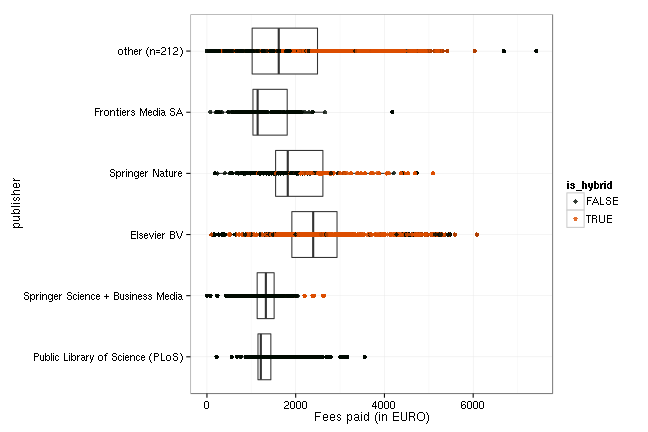
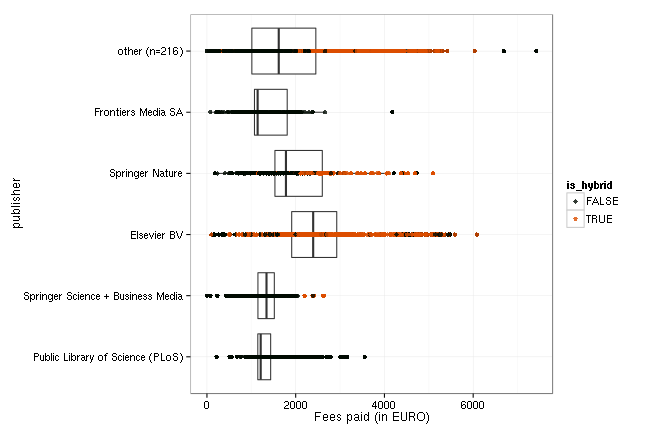
post: tuebingen u joins OpenAPC

diff --git a/_posts/2016-07-27-tuebingen.md b/_posts/2016-07-27-tuebingen.md
@@ -1,0 +1,75 @@
+---
+layout:     post
+author:     Christoph Broschinski
+title:      University of Tübingen joins openapc.github.io
+date:       2016-07-27 09:00:00
+summary:    
+categories: [general, openAPC]
+comments: true
+---
+
+
+
+
+We welcome the [Eberhard Karls Universität Tübingen](https://www.uni-tuebingen.de/en.html) as new contributing institution! [Tübingen University Library](https://www.uni-tuebingen.de/nc/en/facilities/university-library/home.html) is in charge of the [University's Open Access Publishing Fund](https://www.uni-tuebingen.de/einrichtungen/universitaetsbibliothek/forschen-publizieren/open-access-publikationsfonds.html), which is supported under the [DFG's Open Access Publishing Programme](http://www.dfg.de/en/research_funding/programmes/infrastructure/lis/funding_opportunities/open_access_publishing/index.html).
+
+Contact person is [Ute Holzwarth](mailto:openaccess@ub.uni-tuebingen.de).
+
+## About the dataset
+
+The initial dataset contributed by University of Tübingen contains information on publication fees paid in 3 years from 2013 to 2015. 
+
+## Cost Data
+
+
+
+The dataset covers publication fees for 400 articles. Total expenditure amounts to 535 437€ and the average fee is 1 339€.
+
+The following table shows the payments the University of Tübingen has made to publishers (including taxes and discounts).
+
+
+|                                              | Articles| Fees paid in EURO| Mean Fee paid|
+|:---------------------------------------------|--------:|-----------------:|-------------:|
+|Public Library of Science (PLoS)              |       99|            107749|          1088|
+|Frontiers Media SA                            |       85|            112731|          1326|
+|Springer Science + Business Media             |       70|            106374|          1520|
+|Springer Nature                               |       40|             61248|          1531|
+|S. Karger AG                                  |       37|             63981|          1729|
+|MDPI AG                                       |       19|             20550|          1082|
+|Hindawi Publishing Corporation                |        9|              7802|           867|
+|Copernicus GmbH                               |        5|              5198|          1040|
+|Elsevier BV                                   |        5|              7488|          1498|
+|OMICS Publishing Group                        |        4|              4486|          1121|
+|Oxford University Press (OUP)                 |        3|              5018|          1673|
+|Dove Medical Press Ltd.                       |        2|              3531|          1765|
+|IOP Publishing                                |        2|              2570|          1285|
+|Optical Society of America (OSA)              |        2|              3468|          1734|
+|Wiley-Blackwell                               |        2|              4899|          2450|
+|Akademiai Kiado Zrt.                          |        1|               653|           653|
+|ALTEX Edition                                 |        1|              2000|          2000|
+|Austin Publishing group                       |        1|              1786|          1786|
+|BMJ                                           |        1|              1380|          1380|
+|e-Century Publishing Corporation              |        1|              1371|          1371|
+|Impact Journals, LLC                          |        1|              1986|          1986|
+|Institute of Mathematical Statistics          |        1|               562|           562|
+|International Scientific Literature           |        1|               892|           892|
+|International Union of Crystallography (IUCr) |        1|               150|           150|
+|JMIR Publications Inc.                        |        1|              1858|          1858|
+|Libertas Academica, Ltd.                      |        1|              1687|          1687|
+|Nature Publishing Group                       |        1|              1245|          1245|
+|omics international                           |        1|               863|           863|
+|Openventio Publishers                         |        1|               632|           632|
+|PeerJ                                         |        1|               897|           897|
+|Scientific Research Publishing, Inc,          |        1|               381|           381|
+
+### Fees paid per publisher (in EURO)
+
+![plot of chunk tree_tuebingen_2016_07_27_full](/figure/tree_tuebingen_2016_07_27_full-1.png) 
+
+###  Average costs per year (in EURO)
+
+![plot of chunk box_tuebingen_2016_07_27_year_full](/figure/box_tuebingen_2016_07_27_year_full-1.png) 
+
+###  Average costs per publisher (in EURO)
+
+![plot of chunk box_tuebingen_2016_07_27_publisher_full](/figure/box_tuebingen_2016_07_27_publisher_full-1.png) 

diff --git a/about.md b/about.md
@@ -41,6 +41,7 @@ So far, the following German universities have agreed to share information on pa
 - [University of Konstanz](http://www.ub.uni-konstanz.de/openaccess/open-access-publikationsfonds-der-universitaet-konstanz/)
 - [University of Potsdam](https://publishup.uni-potsdam.de/home/index/help/content/publication_fund)
 - [University of Regensburg](http://oa.uni-regensburg.de/)
+- [University of Tübingen](https://www.uni-tuebingen.de/en/facilities/university-library/researching-publishing/open-access-publikationsfonds.html)
 - [University of Würzburg](http://www.bibliothek.uni-wuerzburg.de/en/service0/electronic_publishing/open_access/open_access_journals/)
 
 ## Participating Research Society Funds in Germany
@@ -72,13 +73,13 @@ The data content covers APCs as paid for by our central budget for the Max Planc
 
 Information on both open access journal articles and open access publication of articles in toll-access journals ("hybrid") are provided.
 
-In total,  25 582 407 € for  14 688 articles were paid by the participating unviversities. Average  fee is 1 741.7 € and the median 1 499 €.
+In total,  26 117 844 € for  15 088 articles were paid by the participating unviversities. Average  fee is 1 731 € and the median 1 495 €.
 
 ### Open Access Journals
 
 
 
-At the moment, the dataset releases information on 9 985 articles in open access journals which charge publication fees. Total expenditure amounts to  13 454 321 €. Average  fee is 1 347.5 € and the median 1 260 €.
+At the moment, the dataset releases information on 10 385 articles in open access journals which charge publication fees. Total expenditure amounts to  13 989 758 €. Average  fee is 1 347.1 € and the median 1 263 €.
 
 View dataset on [GitHub](https://github.com/OpenAPC/openapc-de/blob/master/data/apc_de.csv).
 
@@ -118,6 +119,7 @@ View dataset on [GitHub](https://github.com/OpenAPC/openapc-de/blob/master/data/
 |TU Dresden                                  |      130|            175723|          1352|   1415|
 |TU Ilmenau                                  |       17|             18540|          1091|   1046|
 |TU Muenchen                                 |      308|            390086|          1267|   1386|
+|Tuebingen U                                 |      400|            535437|          1339|   1375|
 |Wellcome Trust                              |      772|           1457126|          1887|   1823|
 |Wuerzburg U                                 |      469|            595119|          1269|   1266|
 
@@ -215,7 +217,7 @@ For data enrichment, sample visualisations and explorations we build on the work
 
 ## Contributors
 
-Benjamin Ahlborn, Jochen Apel, Hans-Georg Becker, Roland Bertelmann, Daniel Beucke, Peter Blume, Ute Blumtritt, Christoph Broschinski, Dorothea Busjahn, Gernot Deinzer, Andrea Dorner,  Clemens Engelhardt, Kristina Hanig, Dominik Hell, Ulrich Herb, Inken Feldsien-Sudhaus, Fabian Franke, Claudia Frick, Agnes Geißelmann, Kai Karin Geschuhn, Gerrit Kuehle, Doris Jaeger, Andreas Kennecke, Robert Kiley, Stephanie Kroiss, Kathrin Lucht-Roussel, Frank Lützenkirchen, Anja Oberländer, Vitali Peil, Dirk Pieper, Tobias Pohlmann, Markus Putnings, Michael Schlachter, Katharina Rieck, Florian Ruckelshausen, Birgit Schlegel, Adriana Sikora, Marco Tullney, Astrid Vieler, Marco Winkler, Sabine Witt, Najko Jahn
+Benjamin Ahlborn, Jochen Apel, Hans-Georg Becker, Roland Bertelmann, Daniel Beucke, Peter Blume, Ute Blumtritt, Christoph Broschinski, Dorothea Busjahn, Gernot Deinzer, Andrea Dorner,  Clemens Engelhardt, Kristina Hanig, Dominik Hell, Ulrich Herb, Ute Holzwarth, Inken Feldsien-Sudhaus, Fabian Franke, Claudia Frick, Agnes Geißelmann, Kai Karin Geschuhn, Gerrit Kuehle, Doris Jaeger, Andreas Kennecke, Robert Kiley, Stephanie Kroiss, Kathrin Lucht-Roussel, Frank Lützenkirchen, Anja Oberländer, Vitali Peil, Dirk Pieper, Tobias Pohlmann, Markus Putnings, Michael Schlachter, Katharina Rieck, Florian Ruckelshausen, Birgit Schlegel, Adriana Sikora, Marco Tullney, Astrid Vieler, Marco Winkler, Sabine Witt, Najko Jahn
 
 ## Contact
 
